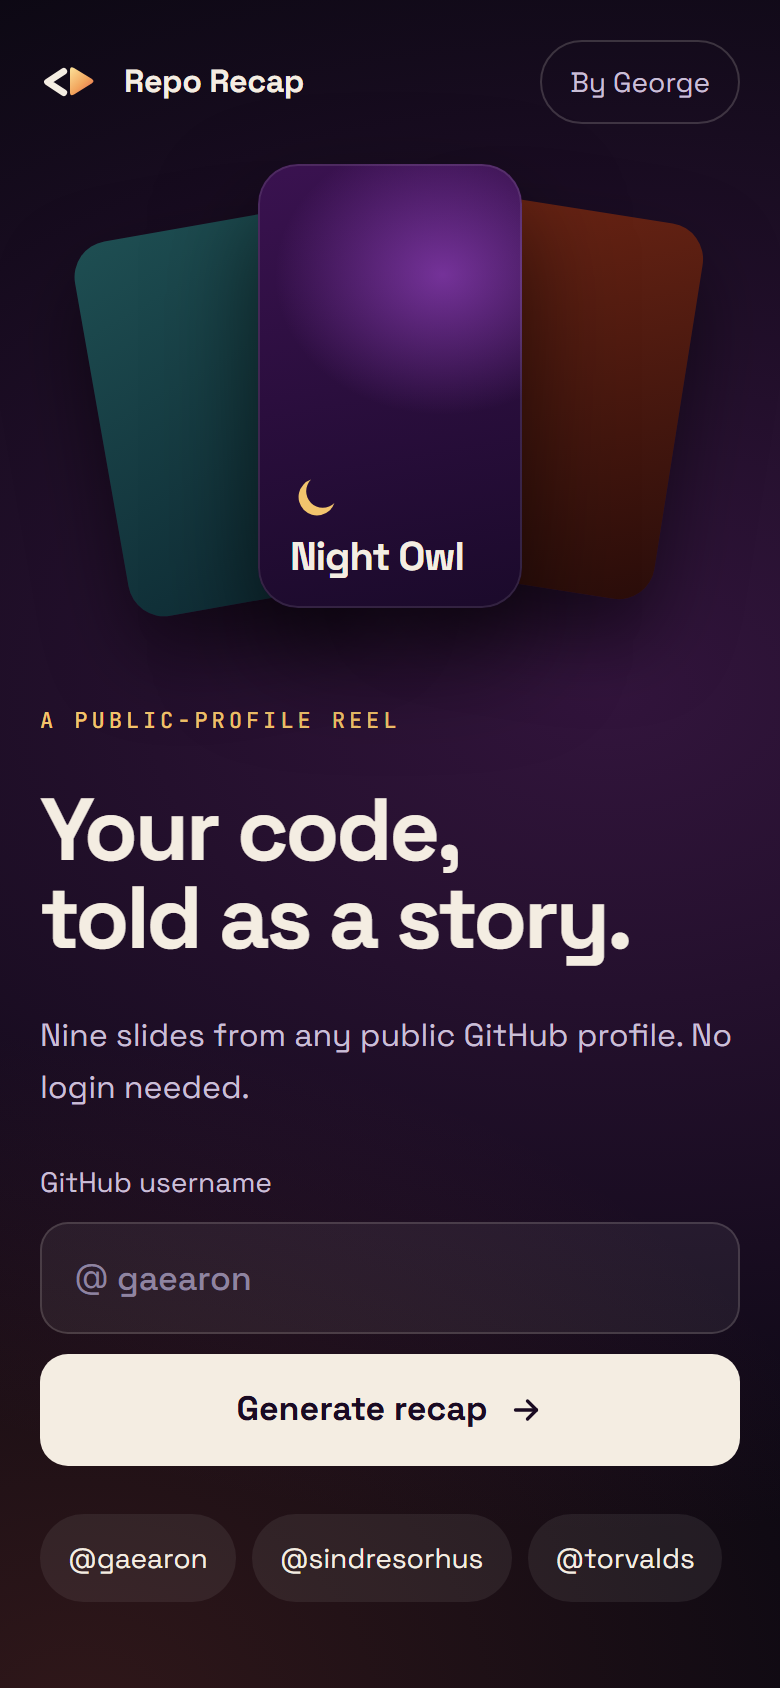
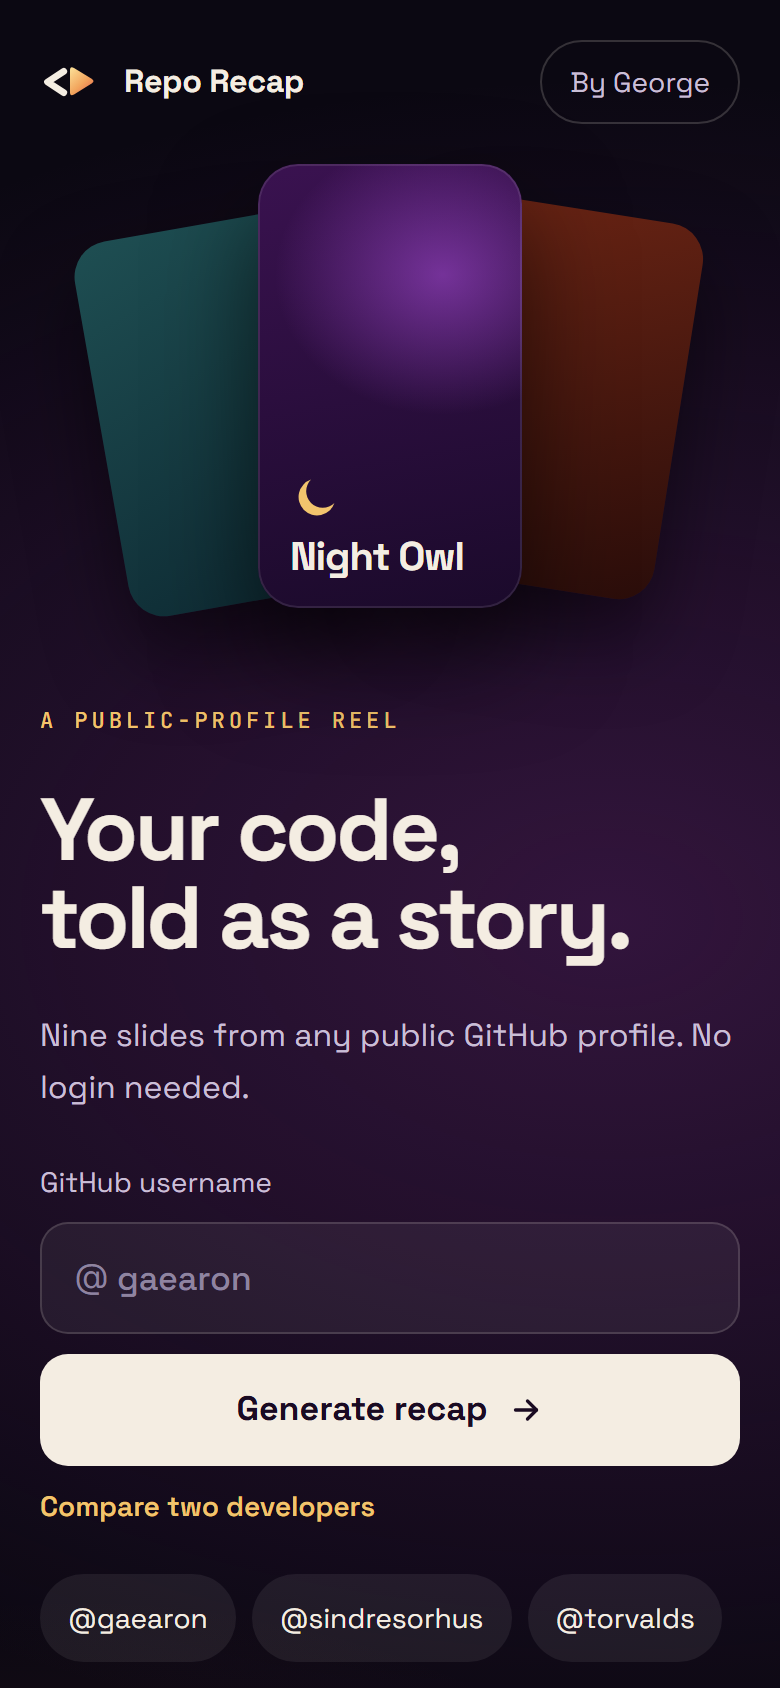
Update Repo Recap case study

Changed region(s): [[0.0, 0.8626, 0.6462, 1.0], [0.7077, 0.8934, 0.8923, 0.9858]]

diff --git a/src/data/projects.js b/src/data/projects.js
@@ -64,18 +64,22 @@ import avbPitch15 from '../assets/projects/avb-transport/pitch/slide-15.png'
 import avbPitch16 from '../assets/projects/avb-transport/pitch/slide-16.png'
 
 import repoDesktopLanding from '../assets/projects/repo-recap/desktop-landing.png'
-import repoDesktopStoryStats from '../assets/projects/repo-recap/desktop-story-stats.png'
-import repoDesktopLanguages from '../assets/projects/repo-recap/desktop-languages.png'
+import repoDesktopYear from '../assets/projects/repo-recap/desktop-year.png'
+import repoDesktopStreak from '../assets/projects/repo-recap/desktop-streak.png'
 import repoDesktopReveal from '../assets/projects/repo-recap/desktop-reveal.png'
 import repoDesktopShare from '../assets/projects/repo-recap/desktop-share.png'
+import repoDesktopCompareContributions from '../assets/projects/repo-recap/desktop-compare-contributions.png'
+import repoDesktopCompareScore from '../assets/projects/repo-recap/desktop-compare-score.png'
+import repoDesktopEmbedCard from '../assets/projects/repo-recap/desktop-embed-card.png'
 import repoDesktopGhost from '../assets/projects/repo-recap/desktop-ghost.png'
-import repoDesktopError from '../assets/projects/repo-recap/desktop-error.png'
 import repoMobileLanding from '../assets/projects/repo-recap/mobile-landing.png'
-import repoMobileAge from '../assets/projects/repo-recap/mobile-age.png'
+import repoMobileYear from '../assets/projects/repo-recap/mobile-year.png'
 import repoMobileDay from '../assets/projects/repo-recap/mobile-day.png'
-import repoMobileStreak from '../assets/projects/repo-recap/mobile-streak.png'
-import repoMobileReveal from '../assets/projects/repo-recap/mobile-reveal.png'
 import repoMobileShare from '../assets/projects/repo-recap/mobile-share.png'
+import repoMobileCompareContributions from '../assets/projects/repo-recap/mobile-compare-contributions.png'
+import repoMobileCompareLanguages from '../assets/projects/repo-recap/mobile-compare-languages.png'
+import repoMobileCompareScore from '../assets/projects/repo-recap/mobile-compare-score.png'
+import repoMobileExport from '../assets/projects/repo-recap/mobile-export.png'
 
 export const projects = [
   // ---------- Product / React ----------
@@ -83,11 +87,11 @@ export const projects = [
     slug: 'repo-recap',
     title: 'Repo Recap — Design & Build',
     role: 'Product Designer & Developer',
-    stack: 'React · TypeScript · Vite',
+    stack: 'React · TypeScript · Vercel Functions',
     year: '2026',
     client: 'Personal project',
     metaLine:
-      'Product Designer & Developer · React · TypeScript · Personal project · 2026',
+      'Product Designer & Developer · React · TypeScript · Vercel · 2026',
     liveLinks: [
       { label: 'Live site', url: 'https://recap.jordanshears.com' },
       { label: 'Source code', url: 'https://github.com/Jorge8017/repo-recap' },
@@ -97,13 +101,15 @@ export const projects = [
       'TypeScript',
       'Product Design',
       'UX',
-      'Framer Motion',
+      'Serverless',
       'Responsive',
     ],
+    excerpt:
+      'A story-style recap for any GitHub profile, with a live API, README card and compare mode.',
     problem:
       'My portfolio leaned on WordPress client builds. I wanted a self-initiated React product that shows the full loop (idea, design, data, polish and launch) and that people would actually want to share.',
     approach:
-      "I designed and built Repo Recap: type any public GitHub username and get a nine-slide story of languages, streaks, peak hours and a developer personality, ending in a downloadable share card. There's no login or backend, just three GitHub API calls cached for an hour. I designed every state, including empty profiles (Ghost Mode), gave it its own logo and brand, and shipped it to recap.jordanshears.com with unit and end-to-end tests.",
+      'Repo Recap turns any public GitHub profile into a ten-slide story: a year of contributions, streaks, peak hours, top languages and a developer personality, ending in a shareable card. A small serverless API on Vercel fetches GitHub data with a token and caches it at the edge; share images and link previews are rendered on the server so they look identical on every phone. Developers can embed a live recap card in their GitHub README, or go head-to-head in compare mode. I designed every state, including private-only profiles (Ghost Mode), gave it its own logo, and shipped it with unit and end-to-end tests.',
     color: '#37473A',
     coverPosition: 'center center',
     image: repoDesktopLanding,
@@ -112,32 +118,43 @@ export const projects = [
       layout: 'showcase',
       desktop: [
         {
-          src: repoDesktopStoryStats,
+          src: repoDesktopYear,
           caption:
-            'Story slides with one big number each, centred on a glow that matches the slide.',
+            'A year of contributions as a monthly chart, with the best month called out.',
         },
         {
-          src: repoDesktopLanguages,
-          caption: "Top languages as animated bars, from the user's public repos.",
+          src: repoDesktopStreak,
+          caption:
+            'One big number per slide, sized to fit any value on any screen.',
         },
         {
           src: repoDesktopReveal,
-          caption:
-            'The reveal: a developer personality based on when and how they code.',
+          caption: 'A developer personality based on when and how they code.',
         },
         {
           src: repoDesktopShare,
           caption:
-            'The final card exports as a 1080 × 1350 image for LinkedIn, Instagram or X.',
+            'The share card is rendered on the server, so it looks the same on every phone.',
+        },
+        {
+          src: repoDesktopCompareContributions,
+          caption:
+            'Compare mode: two developers head-to-head, each in their own colour.',
+        },
+        {
+          src: repoDesktopCompareScore,
+          caption:
+            'A final scoreboard. Private stats are left out, never counted as a loss.',
+        },
+        {
+          src: repoDesktopEmbedCard,
+          caption:
+            'An embeddable card developers can add to their GitHub README.',
         },
         {
           src: repoDesktopGhost,
-          caption: 'Empty profiles get Ghost Mode instead of a wall of zeros.',
-        },
-        {
-          src: repoDesktopError,
           caption:
-            'Friendly error states, including GitHub rate limits with a reset time.',
+            'Private-only profiles get Ghost Mode instead of a wall of zeros.',
         },
       ],
       mobile: [
@@ -146,24 +163,32 @@ export const projects = [
           caption: 'Username input and example profiles, one thumb away.',
         },
         {
-          src: repoMobileAge,
-          caption: 'Hero stats scale to fit any value on a narrow screen.',
+          src: repoMobileYear,
+          caption: 'The monthly chart fits a phone without losing detail.',
         },
         {
           src: repoMobileDay,
-          caption: 'Tap left or right to move, hold to pause.',
-        },
-        {
-          src: repoMobileStreak,
-          caption: 'Streaks and most active repo from the last 90 days.',
-        },
-        {
-          src: repoMobileReveal,
-          caption: 'The personality reveal, full screen.',
+          caption: 'Long values shrink to fit instead of overflowing.',
         },
         {
           src: repoMobileShare,
           caption: 'Save or share the card straight from the phone.',
+        },
+        {
+          src: repoMobileCompareContributions,
+          caption: 'Players stack top and bottom on phones.',
+        },
+        {
+          src: repoMobileCompareLanguages,
+          caption: 'Shared languages keep the same colour for both players.',
+        },
+        {
+          src: repoMobileCompareScore,
+          caption: 'The scoreboard fits without scrolling.',
+        },
+        {
+          src: repoMobileExport,
+          caption: 'The exported 1080×1350 image.',
         },
       ],
     },

diff --git a/src/components/WorkGrid.jsx b/src/components/WorkGrid.jsx
@@ -136,7 +136,11 @@ export default function WorkGrid({
                     )}
                   </div>
                   <h3 className="work-card-title">{project.title}</h3>
-                  {project.problem && <p className="work-card-excerpt">{project.problem}</p>}
+                  {(project.excerpt || project.problem) && (
+                    <p className="work-card-excerpt">
+                      {project.excerpt || project.problem}
+                    </p>
+                  )}
                   {project.comingSoon ? (
                     <span className="work-card-cta work-card-cta--soon">Coming soon</span>
                   ) : (
